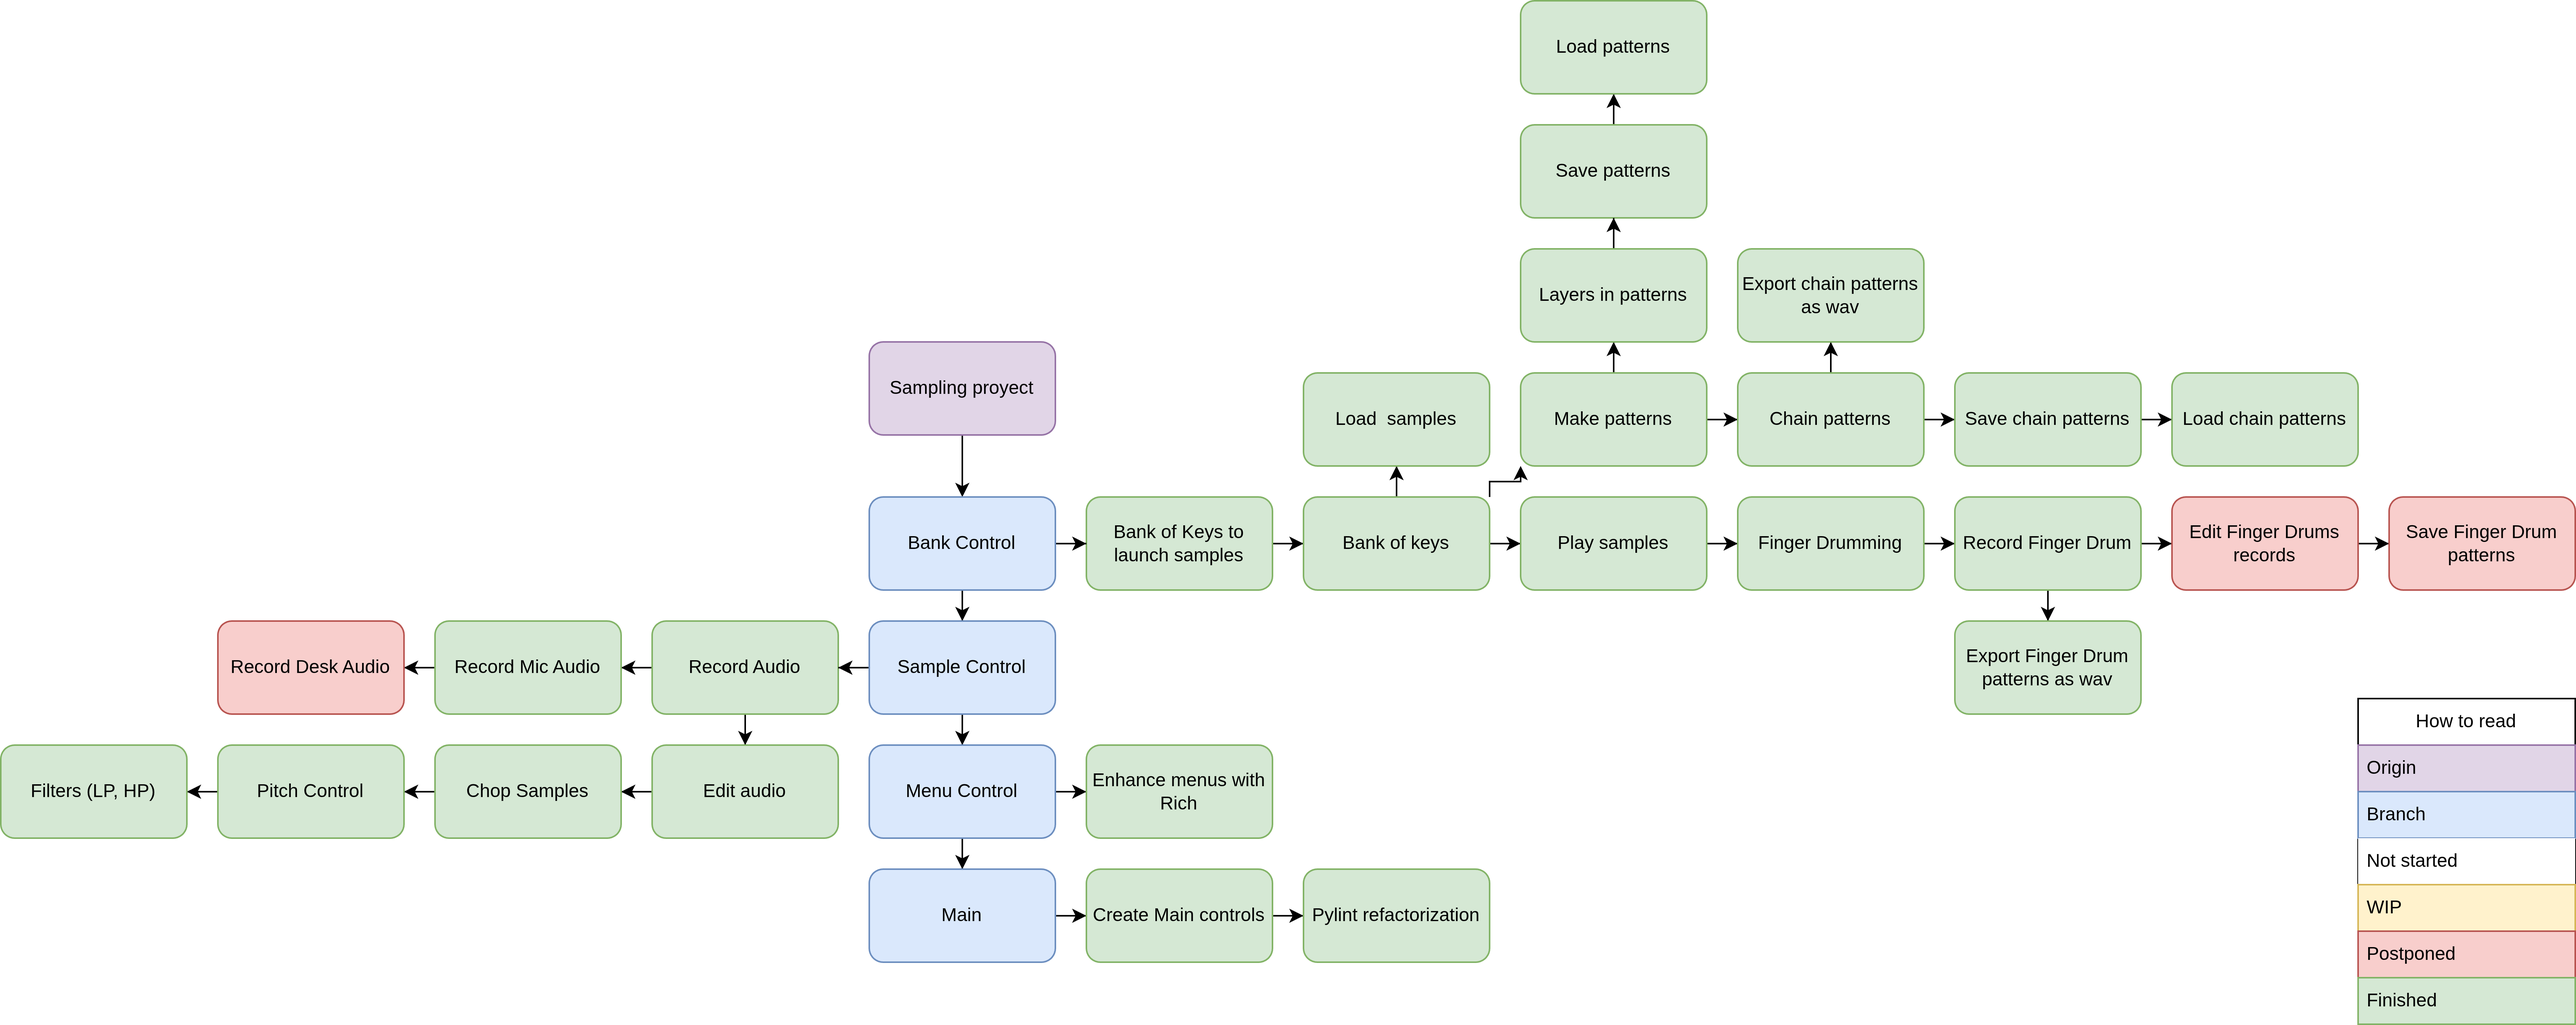
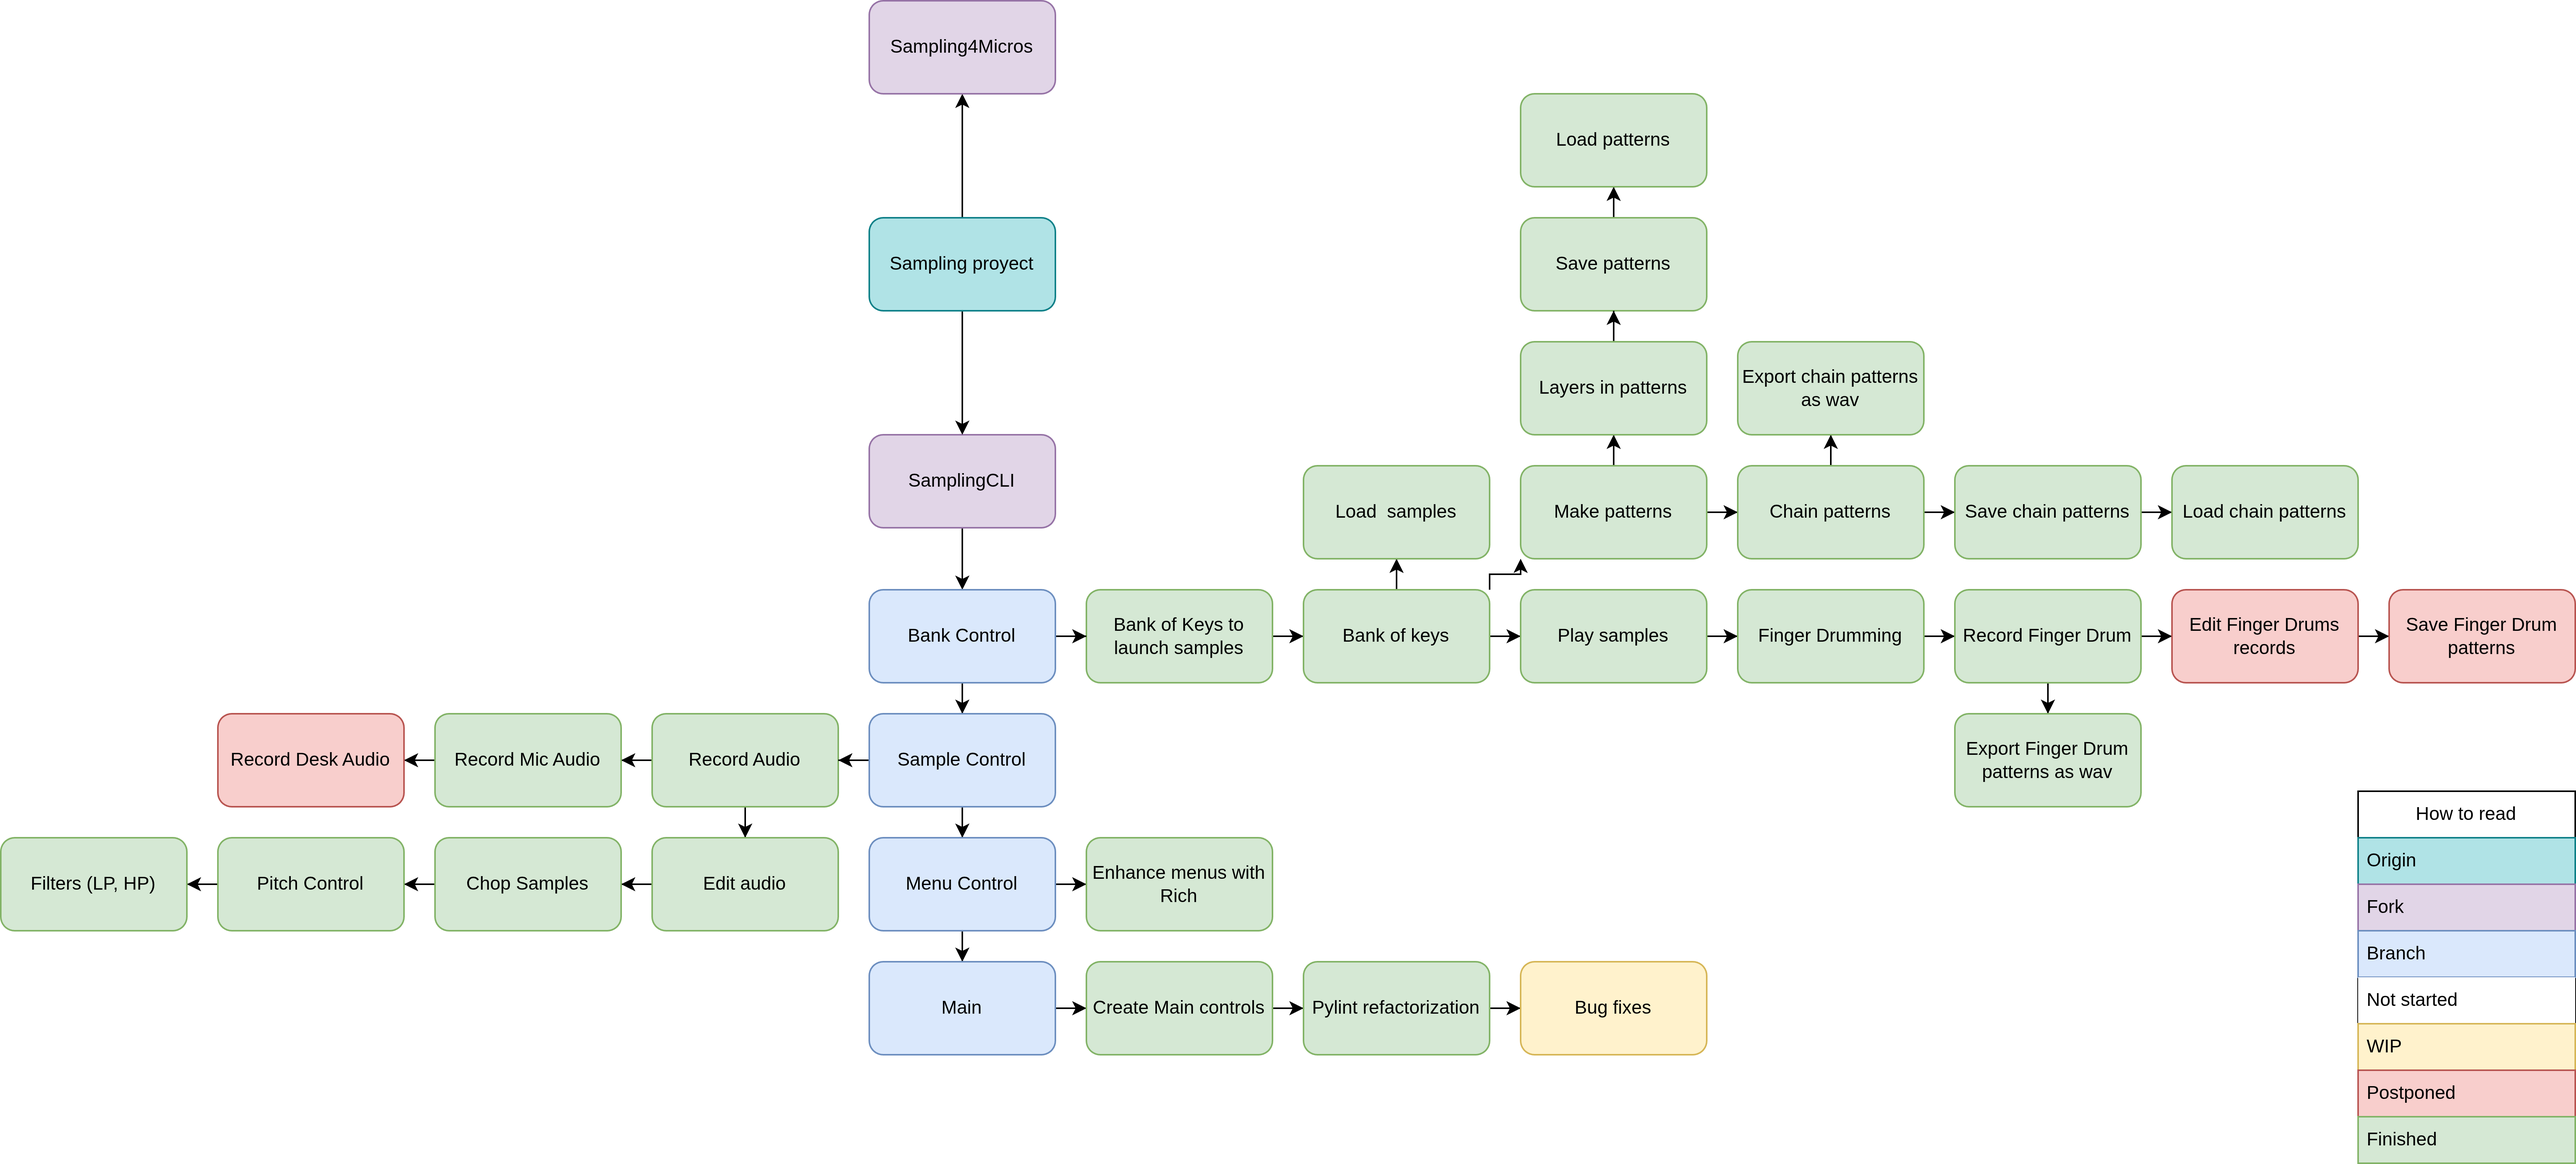
Bug fixes of SamplingCLI

diff --git a/play_modes.py b/play_modes.py
@@ -105,7 +105,8 @@ class PlayModes:
 
         console.print("Press keys ([bold blue]r ,t ,y ,f ,g ,h ,v ,n[/bold blue] " \
         "to play slot 1 to 9 respected) to play samples. " \
-        "Press 'q' to quit and 's' to save bank.") #Instructions message
+        "Press 'q' to quit, 'e' to start/stop recording, " \
+        "and 's' to save bank.") #Instructions message
 
         is_recording = False #Recording state
         session_events = [] #List to store session events
@@ -424,7 +425,7 @@ class PlayModes:
 
             elif cmd.startswith('seq'): #If command is 'seq'
 
-                #Call Seq function from StepSeqControls module
+                #Call Seq function from StepSeqControls module                
                 sequences, current_seq = step_controls.seq(cmd, sequences, current_seq, num_steps)
 
             elif cmd.startswith('save'): #If command starts with 'save'
@@ -434,8 +435,24 @@ class PlayModes:
 
             elif cmd.startswith('load'): #If command starts with 'load'
 
-                #Call Load function from StepSeqControls module
-                tempo, sequences, last_chain = step_controls.load_patterns()
+                #Call Load function and store in a temporary variable to handle cancellation (None return)
+                loaded_data = step_controls.load_patterns()
+
+                #If loaded_data exist
+                if loaded_data:
+                    
+                    tempo, sequences, last_chain = loaded_data #Unpack loaded data into current state variables
+                    
+                    console.print(
+                        "Patterns loaded successfully.", style="bold green"
+                    ) #Success message
+                
+                else: #if loaded_data not exits (cancelled or failed)
+                
+                    # If load was cancelled or failed, we simply don't update the current state
+                    console.print(
+                        "Load cancelled or failed. Current patterns preserved.", style="bold red"
+                    ) #Failure message
 
             elif cmd.startswith('export'): #If command starts with 'export'
 

diff --git a/menu.py b/menu.py
@@ -37,7 +37,7 @@ class Menu: #Start class Menu
 
         print("Menu initialized") #Work check
 
-        sleep(1) #Sleep 1 second
+        #sleep(1) #Sleep 1 second
         console.clear() #Clear the terminal screen
 
         title = r"""
